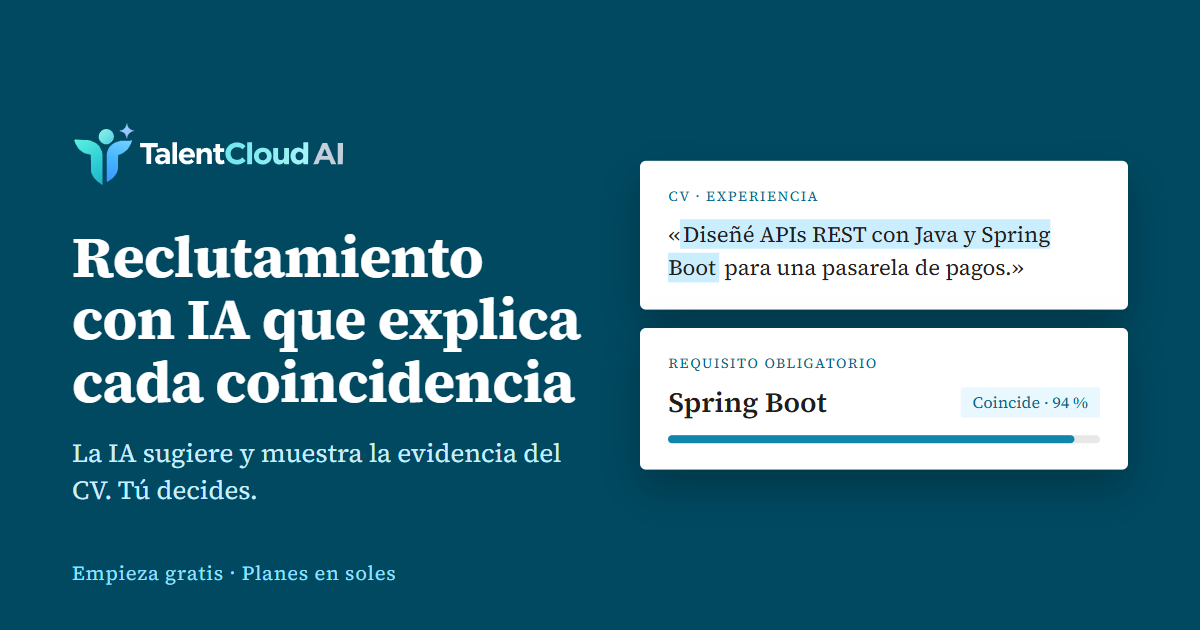
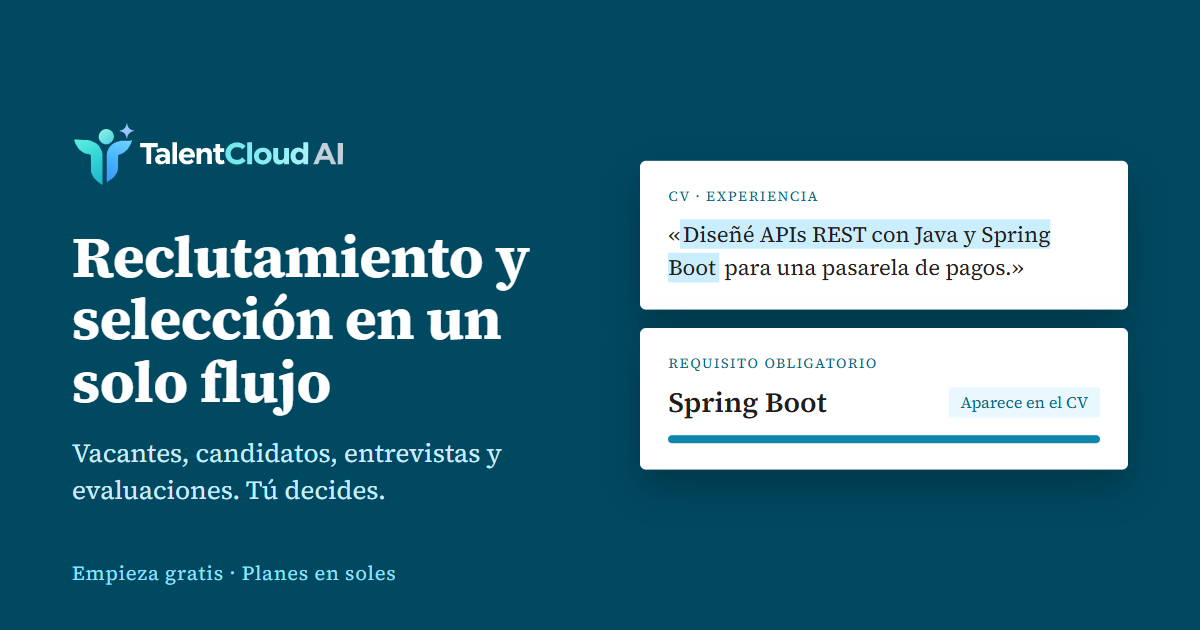
Limpieza de restos de IA: README de la unidad 1, consentimiento, maqueta de la presentación, imagen para compartir y comentarios; los datos de demostración se declaran sintéticos

diff --git a/talentcloud/resources/brand/herramientas/vista-previa.html b/talentcloud/resources/brand/herramientas/vista-previa.html
@@ -28,15 +28,15 @@
     .req { font-size: 28px; font-weight: 600; }
     .tag { font-size: 16px; color: #006786; background: #e9f8ff; padding: 4px 12px; border-radius: 2px; }
     .barra { margin-top: 14px; height: 8px; border-radius: 4px; background: #eae7e7; }
-    .barra span { display: block; width: 94%; height: 100%; border-radius: 4px; background: #1186ac; }
+    .barra span { display: block; width: 100%; height: 100%; border-radius: 4px; background: #1186ac; }
 </style>
 </head>
 <body>
 <div class="lienzo">
     <div>
         <img class="logo" src="../../../public/marca/talentcloud-ai-oscuro.svg" alt="">
-        <h1>Reclutamiento con IA que explica cada coincidencia</h1>
-        <p class="lema">La IA sugiere y muestra la evidencia del CV. Tú decides.</p>
+        <h1>Reclutamiento y selección en un solo flujo</h1>
+        <p class="lema">Vacantes, candidatos, entrevistas y evaluaciones. Tú decides.</p>
     </div>
     <div>
         <div class="tarjeta">
@@ -45,7 +45,7 @@
         </div>
         <div class="tarjeta">
             <p class="rotulo">Requisito obligatorio</p>
-            <div class="fila"><span class="req">Spring Boot</span><span class="tag">Coincide · 94 %</span></div>
+            <div class="fila"><span class="req">Spring Boot</span><span class="tag">Aparece en el CV</span></div>
             <div class="barra"><span></span></div>
         </div>
     </div>

diff --git a/talentcloud/resources/views/components/presentacion/maqueta-dashboard.blade.php b/talentcloud/resources/views/components/presentacion/maqueta-dashboard.blade.php
@@ -4,10 +4,10 @@
     <p class="mb-4 text-12 text-neutral-700">Resumen de la actividad de selección de Nimbus Corp.</p>
 
     <div class="mb-4 grid grid-cols-4 gap-3">
-        @foreach (['Vacantes activas' => '2', 'Candidatos evaluados' => '4', 'Match promedio' => '69%', 'Entrevistas hoy' => '2'] as $indicador => $valor)
+        @foreach (['Vacantes activas' => '2', 'Postulantes' => '15', 'Por revisar' => '4', 'Entrevistas hoy' => '2'] as $indicador => $valor)
             <div class="card !gap-1 !p-3">
                 <div class="card-kicker">{{ $indicador }}</div>
-                <p @class(['m-0 font-heading text-24 font-semibold', 'text-accent-700' => $indicador === 'Match promedio'])>{{ $valor }}</p>
+                <p @class(['m-0 font-heading text-24 font-semibold', 'text-accent-700' => $indicador === 'Por revisar'])>{{ $valor }}</p>
             </div>
         @endforeach
     </div>

diff --git a/talentcloud/resources/views/livewire/candidatos/listado.blade.php b/talentcloud/resources/views/livewire/candidatos/listado.blade.php
@@ -129,7 +129,7 @@ Extracto del CV: "{{ \Illuminate\Support\Str::limit(\Illuminate\Support\Str::squ
                 <p class="field-hint" wire:loading wire:target="archivoCv">Subiendo archivo…</p>
             </x-ui.field>
             <x-ui.field error="autorizado">
-                <x-ui.checkbox wire:model="autorizado" id="candidato-autorizado">El candidato autorizó el tratamiento de sus datos y el análisis de su CV con IA.</x-ui.checkbox>
+                <x-ui.checkbox wire:model="autorizado" id="candidato-autorizado">El candidato autorizó el tratamiento de sus datos y que su CV se guarde y se lea para evaluar su postulación.</x-ui.checkbox>
             </x-ui.field>
         </form>
         <x-slot:actions>

diff --git a/talentcloud/database/seeders/Demo/DocumentosDePrueba.php b/talentcloud/database/seeders/Demo/DocumentosDePrueba.php
@@ -15,7 +15,7 @@ use RuntimeException;
  */
 class DocumentosDePrueba
 {
-    /** Títulos de sección que se maquetan como tales (los mismos que reconoce el servicio de IA). */
+    /** Títulos de sección que se maquetan como tales (los típicos de un CV). */
     private const ENCABEZADOS = '/^(perfil( profesional)?|resumen( profesional)?|sobre mi|objetivo( profesional)?'
         .'|experiencia( laboral| profesional)?|trayectoria( profesional| laboral)?|educacion|formacion( academica| profesional)?|estudios'
         .'|habilidades( tecnicas)?|competencias( tecnicas)?|conocimientos( tecnicos)?|herramientas|tecnologias|aptitudes|skills'

diff --git a/talentcloud/database/seeders/Demo/Volumen/GeneradorDePersonas.php b/talentcloud/database/seeders/Demo/Volumen/GeneradorDePersonas.php
@@ -8,7 +8,7 @@ use Illuminate\Support\Carbon;
  * Personas ficticias con un CV al estilo del de César Polo, para sembrar cientos
  * de postulaciones por vacante. Es reproducible: la misma semilla da las mismas
  * personas. Cada una tiene un perfil de su familia profesional con competencias
- * del catálogo, así el matching da resultados distintos sin porcentajes escritos
+ * del catálogo, así el análisis de requisitos da resultados distintos sin porcentajes escritos
  * a mano.
  *
  * @phpstan-type Perfil array{titular: string, cargos: list<string>, carrera: string, skills: list<string>, herramientas: list<string>}

diff --git a/talentcloud/database/seeders/Demo/CvsDeOtrasEmpresas.php b/talentcloud/database/seeders/Demo/CvsDeOtrasEmpresas.php
@@ -5,7 +5,7 @@ namespace Database\Seeders\Demo;
 /**
  * CV de demostración de las empresas que no son de tecnología (Brío Retail, Ruta
  * Sur Logística, Nuna Salud y Altura Café). Todo es ficticio. Cada vacante tiene
- * candidatos fuertes y débiles para que el matching muestre coincidencias,
+ * candidatos fuertes y débiles para que el análisis de requisitos muestre coincidencias,
  * menciones dudosas y requisitos no encontrados.
  *
  * Convenciones que espera el lector de CV: puesto y periodo en una sola línea

diff --git a/talentcloud/database/seeders/Demo/CvsDeDemostracion.php b/talentcloud/database/seeders/Demo/CvsDeDemostracion.php
@@ -4,9 +4,8 @@ namespace Database\Seeders\Demo;
 
 /**
  * CV de demostración de Nimbus Corp y Vela Studio, escritos como CV reales.
- * Personas, empresas y teléfonos son ficticios. El servicio de IA calibra sus
- * umbrales con una versión anterior y más breve de estos CV
- * (talentcloud-ai/tests/datos/cvs), que no se toca.
+ * Personas, empresas y teléfonos son ficticios. El análisis básico de requisitos busca en ellos las competencias
+ * que pide cada vacante.
  */
 class CvsDeDemostracion
 {

diff --git a/talentcloud/database/seeders/DemoSeeder.php b/talentcloud/database/seeders/DemoSeeder.php
@@ -142,7 +142,7 @@ class DemoSeeder extends Seeder
     /**
      * La historia de la demo, día a día ("hace N días"). Cada línea es lo que
      * una persona hizo en la aplicación; los avisos, la actividad, el
-     * historial y el matching los genera la propia aplicación.
+     * historial y la actividad los genera la propia aplicación.
      */
     private function historia(User $admin, User $marta, User $diego, User $clara, User $adminOrbita, Empresa $orbita): void
     {

diff --git a/talentcloud/README.md b/talentcloud/README.md
@@ -1,32 +1,26 @@
 # TalentCloud AI — aplicación Laravel
 
-SaaS de reclutamiento y selección con matching semántico explicable. Visión general del proyecto en el [README de la raíz](../README.md).
+SaaS de reclutamiento y selección: vacantes, candidatos con su CV, postulaciones en un tablero por etapas, entrevistas, evaluaciones y
+un dashboard por empresa, con un administrador de la plataforma. Esta versión es la de la **primera unidad**: incluye un **análisis básico
+de requisitos, sin IA** (busca cada competencia pedida en el texto del CV y muestra el fragmento como evidencia). La IA (extracción y
+comparación semántica) llega en la segunda unidad.
 
-Stack: Laravel 12 · PHP 8.2 · Livewire 3 (Volt) + Alpine · Tailwind CSS 3 · PostgreSQL 17 + pgvector · Pest · Pint · Larastan.
+Stack: Laravel 12 · PHP 8.2 · Livewire 3 (Volt) + Alpine · Tailwind CSS 3 · PostgreSQL 17 · Pest · Pint · Larastan.
 
 ## Requisitos
 
-PHP 8.2 con `pdo_pgsql`, `intl`, `zip`, `gd` y **OPcache activo** (en XAMPP viene desactivado: en `php.ini`, `zend_extension=opcache`, `opcache.enable=1` y `opcache.revalidate_freq=0`; sin él cada página tarda segundos); Composer 2; Node 20+; Docker Desktop; Python 3.11 y
-[uv](https://docs.astral.sh/uv/) para el servicio de IA (`../talentcloud-ai`).
+PHP 8.2 con `pdo_pgsql`, `intl`, `zip`, `gd` y **OPcache activo** (en XAMPP viene desactivado: en `php.ini`, `zend_extension=opcache`, `opcache.enable=1` y `opcache.revalidate_freq=0`; sin él cada página tarda segundos); Composer 2; Node 20+; Docker Desktop.
 
 ## Puesta en marcha
 
 ```bash
-docker compose up -d          # PostgreSQL + pgvector (puerto 5433) y Mailpit
+docker compose up -d          # PostgreSQL (puerto 5433) y Mailpit
 cp .env.example .env          # completar DB_PASSWORD
 composer install && npm install
 php artisan key:generate
 php artisan migrate
-(cd ../talentcloud-ai && uv sync --extra ml)   # servicio de IA con el modelo de embeddings
-composer dev                  # servidor, cola (ia, default), Vite y servicio de IA (puerto 8001)
+composer dev                  # servidor, cola y Vite
 ```
-
-Servicio de IA: con `IA_HABILITADA=true` y `MATCHING_ENGINE=http`, el matching lo calcula el servicio (coincidencia
-exacta + similitud semántica, con evidencia y motivo); si no responde, se usa el análisis básico y
-`php artisan talentcloud:recalcular-matching --solo-basicos` lo rehace cuando vuelve. Además, cada CV procesado se analiza (competencias, años, fragmentos con
-embedding) y cada cambio de requisitos genera sus embeddings, en la cola `ia`. `IA_API_KEY` debe coincidir con
-`TALENTCLOUD_AI_API_KEY` de `talentcloud-ai/.env`. Con `IA_HABILITADA=false` todo funciona igual con el análisis
-básico. La primera vez, el servicio descarga el modelo (unos 470 MB).
 
 - App: http://localhost:8000
 - Correos capturados (Mailpit): http://localhost:8025
@@ -34,9 +28,10 @@ básico. La primera vez, el servicio descarga el modelo (unos 470 MB).
 ## Datos de demostración
 
 `php artisan migrate:fresh --seed` carga siete empresas (tecnología, diseño, retail, logística, salud y gastronomía), 15 vacantes y 42 postulaciones con su CV, reproduciendo la historia de cada postulación
-con fechas relativas al día de la carga. Con el servicio de IA en marcha (`composer dev`), analiza los CV y
-calcula el matching durante la carga; si la IA no responde, avisa y siembra con el análisis básico, y después
-basta con `php artisan talentcloud:reindexar-embeddings --sync` y `php artisan talentcloud:recalcular-matching`.
+con fechas relativas al día de la carga.
+
+> **Los datos de demostración son sintéticos**: personas, empresas, teléfonos, correos y CV son ficticios, creados solo para probar el sistema con
+> un dominio coherente (ningún dato personal es real). Lo que muestran los paneles (cifras, gráficos, actividad) sale de esas filas de la base de datos.
 Todas las cuentas usan la contraseña `password`:
 
 | Cuenta | Rol | Empresa |
@@ -59,15 +54,14 @@ Todas las cuentas usan la contraseña `password`:
 
 Otros postulantes con cuenta: renzo.paredes, milagros.huaman (retiró su postulación), gianella.torres, luis.chavez,
 karen.espinoza, kevin.morales, mariana.alarcon, lucero.mamani y thiago.huillca, todos `@correo.com`.
-El Libro de Reclamaciones tiene una hoja respondida y otra pendiente.
 
-El postulante ve las vacantes abiertas de las empresas activas en «Vacantes» y postula con su CV; la empresa recibe el aviso y la postulación entra en su Kanban con el matching de la IA. También puede retirar una postulación en curso, editar su titular y teléfono en «Mi perfil» y descargar sus datos en JSON. Sin iniciar sesión, cualquiera ve las vacantes abiertas en `/empleos` (y las más recientes en la presentación); «Postular» lleva a iniciar sesión o registrarse y vuelve a la vacante.
+El postulante ve las vacantes abiertas de las empresas activas en «Vacantes» y postula con su CV; la empresa recibe el aviso y la postulación entra en su tablero de Selección con el análisis básico de requisitos. También puede retirar una postulación en curso, editar su titular y teléfono en «Mi perfil» y descargar sus datos en JSON. Sin iniciar sesión, cualquiera ve las vacantes abiertas en `/empleos` (y las más recientes en la presentación); «Postular» lleva a iniciar sesión o registrarse y vuelve a la vacante.
 
-La empresa ve en el dashboard el embudo de selección de los últimos 90 días, y en «Mi empresa» el uso de su plan: vacantes activas, usuarios y postulaciones evaluadas con IA en el mes (Gratis: 1, 2 y 30; Starter: 3, 3 y 300; Pro: 15, 10 y 2 000; Enterprise: sin límite). Toda empresa nueva entra en Gratis con 14 días del plan Pro. Los precios están en `/planes`. Con la pasarela configurada (`PAGOS_PASARELA=stripe`, ver «Pagos con Stripe»), Starter y Pro se pagan con tarjeta desde «Mi empresa»; sin ella, y para Enterprise, la empresa solicita el plan y el admin SaaS lo aplica desde «Empresas».
+La empresa ve en el dashboard el embudo de selección del periodo elegido (7, 30 o 90 días), y en «Mi empresa» el uso de su plan: vacantes activas y usuarios (Gratis: 1 y 2; Starter: 3 y 3; Pro: 15 y 10; Enterprise: sin límite). Toda empresa nueva entra en Gratis con 14 días del plan Pro. Los precios están en `/planes`. Con la pasarela configurada (`PAGOS_PASARELA=stripe`, ver «Pagos con Stripe»), Starter y Pro se pagan con tarjeta desde «Mi empresa»; sin ella, y para Enterprise, la empresa solicita el plan y el admin SaaS lo aplica desde «Empresas».
 
 ### Volumen de demostración (opcional)
 
-La demo base tiene pocas postulaciones por vacante. Para ver el producto «lleno» (dashboard, ranking, Kanban con
+La demo base tiene pocas postulaciones por vacante. Para ver el producto «lleno» (dashboard, tablero con
 «Ver más», Excel con datos), después de `migrate:fresh --seed`:
 
 ```bash
@@ -79,23 +73,23 @@ límite de vacantes activas de cada plan) y siembra ~3 500 postulaciones de pers
 (perfil, experiencia con fechas, proyectos, educación, habilidades). El volumen depende del tipo de puesto: cientos en
 contratación masiva (cajeros, operarios, mozos), decenas en perfiles técnicos y pocas en jefaturas. Reproduce la historia
 con los servicios de la aplicación (registro, CV, postulación, Kanban, entrevistas, evaluaciones, cierre), así que el
-historial y la actividad son los de un uso real. El matching es el análisis básico (no gasta el cupo de IA); después:
-`php artisan talentcloud:reindexar-embeddings --sync` y `talentcloud:recalcular-matching` para lo que quieras mostrar con IA.
-No es parte de `DatabaseSeeder` (los tests no lo necesitan). Orbita Labs, que está suspendida, no recibe vacantes.
+historial y la actividad son los de un uso real. No es parte de `DatabaseSeeder` (los tests no lo necesitan). Orbita Labs, que está suspendida, no recibe vacantes.
 
 ### Escala
 
 Medido sobre una copia con una sola empresa de 10 000 vacantes, ~120 000 postulaciones y una vacante con 15 000
-(`database/rendimiento/carga_empresa_grande.sql`): Selección 0,45 s y 36 MB (antes 20 s y caída por memoria), matching
-0,4 s, «Programar entrevista» y «Evaluar» 20 ms (antes caída y 3,4 s). Lo que lo permite: el tablero trae las primeras 25
-tarjetas de cada columna («Ver más»), el ranking se pagina en SQL con el resumen de cumplimiento en columnas indexadas
-(`postulaciones.requisitos_total/_cubiertos/obligatorios_faltantes`, que escribe `CalcularMatch`), mover una tarjeta
+(`database/rendimiento/carga_empresa_grande.sql`): Selección 0,45 s y 36 MB (antes 20 s y caída por memoria),
+«Programar entrevista» y «Evaluar» 20 ms (antes caída y 3,4 s). Lo que lo permite: el tablero trae las primeras 25
+tarjetas de cada columna («Ver más»), el análisis básico de las tarjetas visibles se hace con dos lecturas para todo el tablero, mover una tarjeta
 renumera en SQL con un candado sobre la vacante, los desplegables enormes son buscadores (`<x-ui.buscador>`: 20 resultados
 por consulta) y las cifras agregadas del dashboard se guardan 60 s por empresa (`DASHBOARD_CACHE_SEGUNDOS`).
 
 `docker compose` toma `DB_PASSWORD` del `.env`. Crea las bases `talentcloud` y `talentcloud_testing`, ambas con la extensión `vector`.
 
-## Pagos con Stripe
+## Pagos con Stripe (unidad 3)
+
+El cobro en línea está implementado pero **apagado** en esta entrega (`PAGOS_PASARELA` vacío): en la primera unidad el plan se solicita y lo aplica el
+administrador de la plataforma. Se evalúa en la tercera unidad.
 
 La empresa es el cliente de Stripe. «Pagar» en «Mi empresa» abre Stripe Checkout (precio en soles más IGV) y
 el plan cambia **solo** cuando llega el aviso firmado de Stripe a `POST /stripe/webhook`: la suscripción se
@@ -143,7 +137,7 @@ composer analyse              # Larastan
 php artisan test --filter=NombreDelTest
 ```
 
-Los tests usan PostgreSQL (`talentcloud_testing`), no SQLite, porque el esquema usa pgvector.
+Los tests usan PostgreSQL (`talentcloud_testing`), no SQLite, porque el esquema usa tipos y funciones propios de PostgreSQL.
 `tests/Feature/Rendimiento` fija cuántas consultas hace cada página: si una supera su presupuesto, buscar la
 relación que se carga dentro de un bucle (N+1) antes de subir la cifra.
 
